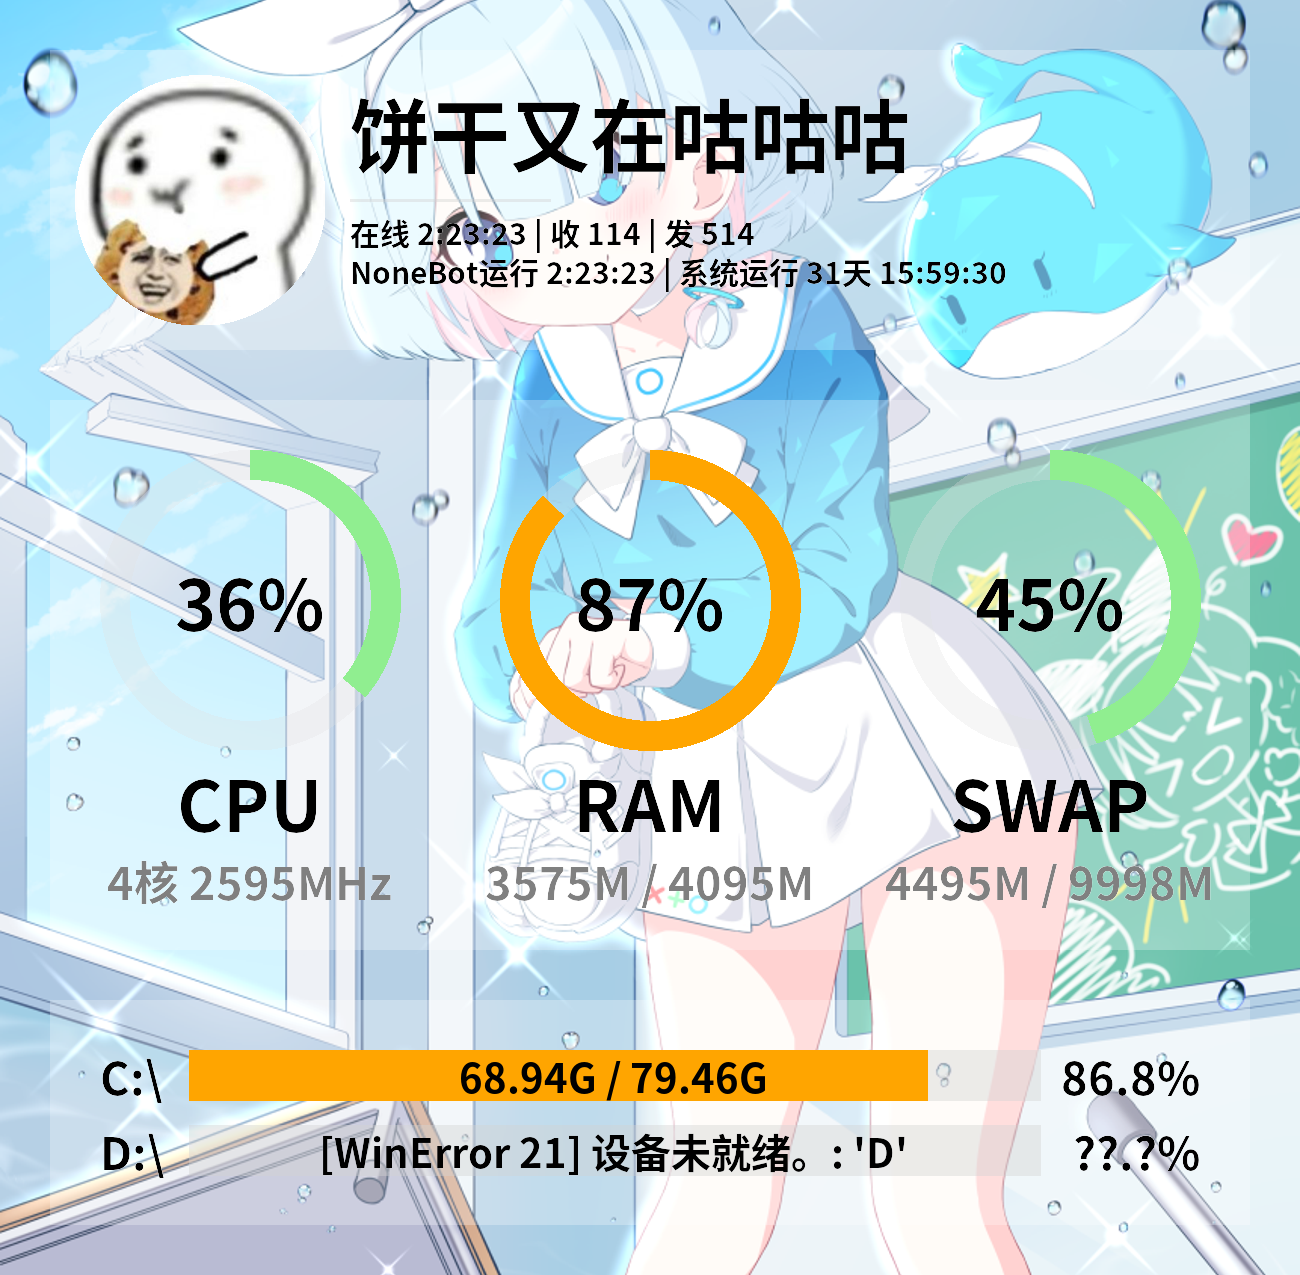
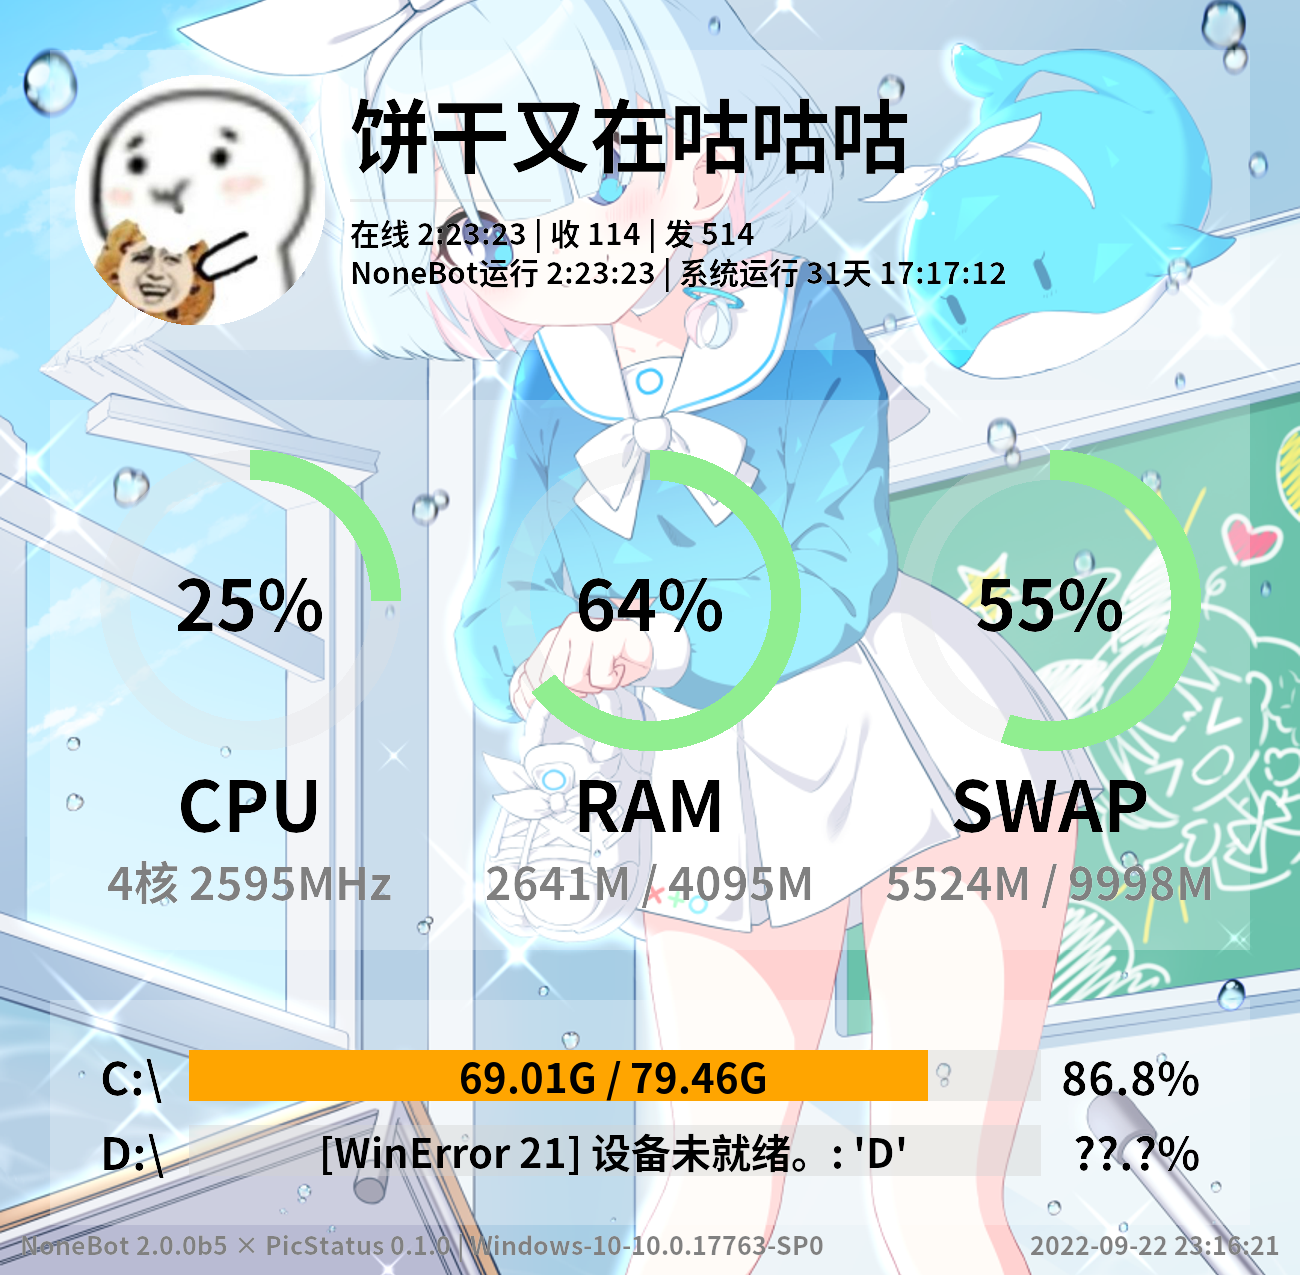
demo

diff --git a/demo/demo.py b/demo/demo.py
@@ -1,4 +1,6 @@
 import asyncio
+import platform
+import time
 from datetime import datetime, timedelta
 from io import BytesIO
 
@@ -235,6 +237,21 @@ async def draw_disk_usage():
     return bg
 
 
+async def draw_footer(img: Image.Image):
+    # 系统信息
+    system = platform.platform()
+
+    font_25 = get_font(25)
+    draw = ImageDraw.Draw(img)
+    w, h = img.size
+
+    draw.text((20, h - 20), f'NoneBot 2.0.0b5 × PicStatus 0.1.0 | {system}', 'gray',
+              font_25,
+              'ls')
+    draw.text((w - 20, h - 20), time.strftime('%Y-%m-%d %H:%M:%S'), 'gray', font_25,
+              'rs')
+
+
 async def get_stat_pic(bg):
     img_w = 1300
     img_h = 50  # 这里是上边距，留给下面代码统计图片高度
@@ -250,13 +267,15 @@ async def get_stat_pic(bg):
     for p in ret:
         img_h += p.size[1] + 50
 
-    img = Image.new('RGBA', (img_w, img_h), '#ffffff00')
-
     # 拼接图片
+    img = Image.new('RGBA', (img_w, img_h), '#ffffff00')
     h_pos = 50
     for p in ret:
         img.paste(p, (50, h_pos), p)
         h_pos += p.size[1] + 50
+
+    # 写footer
+    await draw_footer(img)
 
     # 居中裁剪背景
     bg = (await async_open_img(bg)).convert("RGBA")
@@ -270,12 +289,12 @@ async def get_stat_pic(bg):
         scale = img_h / bg_h
         bg_w = int(bg_w * scale)
 
-        crop_l = (bg_w / 2) - (img_w / 2)
+        crop_l = round((bg_w / 2) - (img_w / 2))
         bg = bg.resize((bg_w, img_h)).crop((crop_l, 0, crop_l + img_w, img_h))
     else:
         bg_h = scaled_h
 
-        crop_t = (bg_h / 2) - (img_h / 2)
+        crop_t = round((bg_h / 2) - (img_h / 2))
         bg = bg.resize((img_w, bg_h)).crop((0, crop_t, img_w, crop_t + img_h))
 
     bg.paste(img, (0, 0), img)
